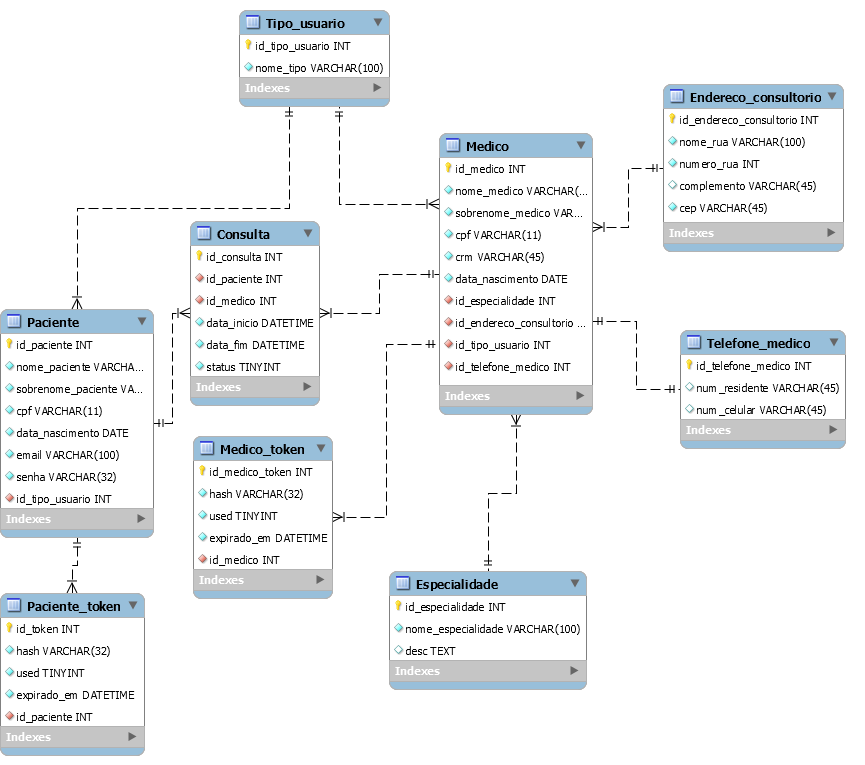
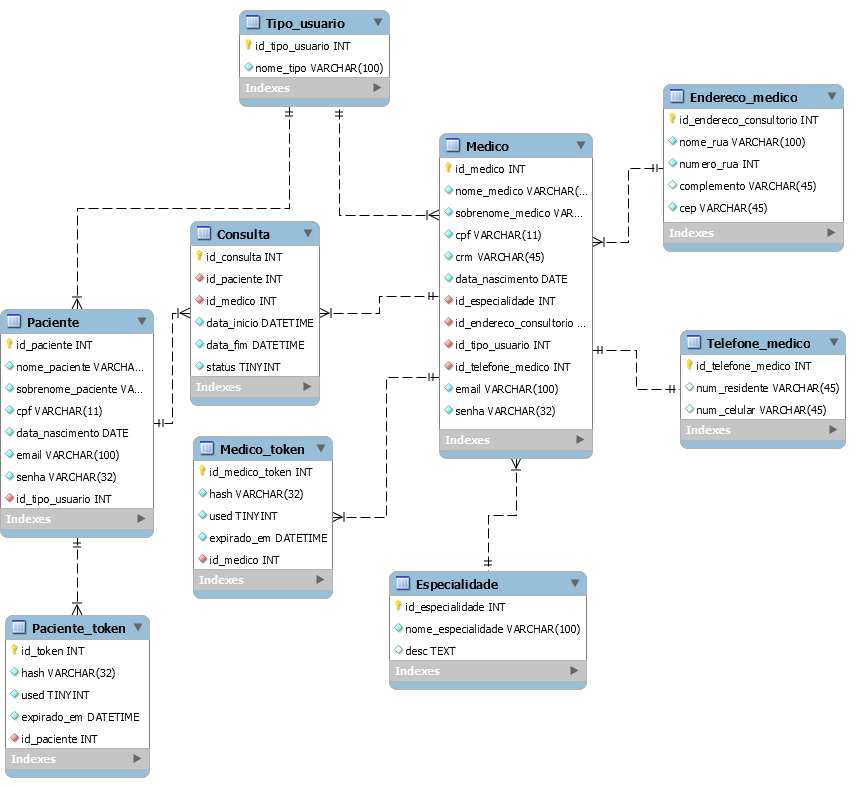
adicionado classes consulta, medico, paciente, usuario e  também seus respectivos métodos. E pequenas alterações no MER

diff --git a/classes/Medico.php b/classes/Medico.php
@@ -1,0 +1,161 @@
+<?php
+class Medico
+{
+    private $conn;
+
+    public function __construct($conn)
+    {
+        $this->conn = $conn;
+    }
+
+    // Retorna um array com todos os médicos cadastrados.
+    // Revisar query, está com erro!!!
+    public function getMedicos()
+    {
+        $stmt = $this->conn->query('SELECT nome_medico, sobrenome_medico, email, 
+        (SELECT especialidade.nome_especialidade FROM especialidade),
+        (SELECT endereco_consultorio.nome_rua, endereco_consultorio.numero_rua, endereco_consultorio.cep FROM endereco_consultorio),
+        (SELECT telefone_medico.num_residente, telefone_medico.num_celular FROM telefone_medico) 
+        FROM medico');
+        $array = array();
+        if ($stmt->rowCount() > 0) {
+            $array = $stmt->fetchAll(PDO::FETCH_ASSOC);
+            return $array;
+        }
+        return $array;
+    }
+
+    // Cadastra um médico.
+    public function cadastrar($nome_medico, $sobrenome_medico, $cpf, $crm, $data_nascimento, $id_especialidade, $nome_rua, $numero_rua, $complemento, $cep, $id_tipo_usuario, $email, $senha, $num_res = null, $num_cel = null)
+    {
+        // Verifica se o email é válido (não está em uso).
+        $stmt = $this->conn->prepare('SELECT *, (SELECT paciente.email FROM paciente WHERE paciente.email = :email) FROM medico WHERE email = :email');
+        $stmt->bindValue(':email', $email);
+        $stmt->execute();
+        if ($stmt->rowCount() == 0) {
+            // Email válido, verificando CPF e CRM.
+            if ($this->validaCPF($cpf) == true && $this->validaCRM($crm) == true) {
+                // CPF e CRM válidos...
+                // Cadastrando endereço e salvando id.
+                $id_endereco_consultorio = $this->cadastrarEndereco($nome_rua, $numero_rua, $complemento, $cep);
+
+                // Cadastrando telefone e salvando id
+                $id_telefone_medico = $this->cadastrarTelefone($num_res, $num_cel);
+
+                // Cadastrando médico.
+                $stmt = $this->conn->prepare('INSERT INTO medico VALUES (DEFAULT, :nome_medico, :sobrenome_medico, :cpf, :crm, :data_nascimento, :id_especialidade, :id_endereco_consultorio, :id_tipo_usuario, :id_telefone_medico, :email, :senha)');
+                $stmt->bindValue(':nome_medico', $nome_medico);
+                $stmt->bindValue(':sobrenome_medico', $sobrenome_medico);
+                $stmt->bindValue(':cpf', $cpf);
+                $stmt->bindValue(':crm', $crm);
+                $stmt->bindValue(':data_nascimento', $data_nascimento);
+                $stmt->bindValue(':id_especialidade', $id_especialidade);
+                $stmt->bindValue(':id_endereco_consultorio', $id_endereco_consultorio);
+                $stmt->bindValue(':id_tipo_usuario', $id_tipo_usuario);
+                $stmt->bindValue(':id_telefone_medico', $id_telefone_medico);
+                $stmt->bindValue(':email', $email);
+                $stmt->bindValue(':senha', $senha);
+                $stmt->execute();
+                return true;
+            } else {
+                // CPF e/ou CRM inválido(s).
+                return false;
+            }
+
+        } else {
+            // Email inválido (está em uso).
+            return false;
+        }
+    }
+
+    // Cadastra um endereço e retorna o id_endereco_medico.
+    private function cadastrarEndereco($nome_rua, $numero_rua, $complemento, $cep)
+    {
+        $stmt = $this->conn->prepare('INSERT INTO endereco_consultorio (nome_rua, numero_rua, complemento, cep) VALUES (:nome_rua, :numero_rua, :complemento, :cep)');
+        $stmt->bindValue(':nome_rua', $nome_rua);
+        $stmt->bindValue(':numero_rua', $numero_rua);
+        $stmt->bindValue(':complemento', $complemento);
+        $stmt->bindValue(':cep', $cep);
+        $stmt->execute();
+        return $this->conn->lastIdInsert();
+    }
+
+    // Cadastra um telefone e retorna o id_telefone_medico
+    private function cadastrarTelefone($num_res, $num_cel)
+    {
+        $stmt = $this->conn->prepare('INSERT INTO telefone_medico (num_residente, num_celular) VALUES (:num_residente, :num_celular)');
+        $stmt->bindValue(':num_residente', $num_res);
+        $stmt->bindValue(':num_celular', $num_cel);
+        $stmt->execute();
+        return $this->conn->lastIdInsert();
+    }
+
+    // Verifica CRM
+    private function validaCRM($crm)
+    {
+        $stmt = $this->conn->prepare('SELECT * FROM medico WHERE crm = :crm');
+        $stmt->bindValue(':crm', $crm);
+        $stmt->execute();
+        if ($stmt->rowCount() == 0) {
+            // CRM válido.
+            return true;
+        } else {
+            // CRM inválido (está em uso).
+            return false;
+        }
+    }
+
+    // Verifica CPF
+    private function validaCPF($cpf)
+    {
+        // Verifica se um número foi informado
+        if(empty($cpf)) {
+            return false;
+        }
+    
+        // Elimina possivel mascara
+        $cpf = preg_replace("/[^0-9]/", "", $cpf);
+        $cpf = str_pad($cpf, 11, '0', STR_PAD_LEFT);
+        
+        // Verifica se o numero de digitos informados é igual a 11 
+        if (strlen($cpf) != 11) {
+            return false;
+        }
+        // Verifica se nenhuma das sequências invalidas abaixo foi digitada. Caso afirmativo, retorna falso
+        else if ($cpf == '00000000000' || 
+            $cpf == '11111111111' || 
+            $cpf == '22222222222' || 
+            $cpf == '33333333333' || 
+            $cpf == '44444444444' || 
+            $cpf == '55555555555' || 
+            $cpf == '66666666666' || 
+            $cpf == '77777777777' || 
+            $cpf == '88888888888' || 
+            $cpf == '99999999999') {
+            return false;
+        
+        // Calcula os digitos verificadores para verificar se o CPF é válido
+        } else {   
+            for ($t = 9; $t < 11; $t++) {
+                for ($d = 0, $c = 0; $c < $t; $c++) {
+                    $d += $cpf{$c} * (($t + 1) - $c);
+                }
+                $d = ((10 * $d) % 11) % 10;
+                if ($cpf{$c} != $d) {
+                    return false;
+                }
+            }
+        }
+
+        // Verifica se o CPF está disponível
+        $stmt = $this->conn->prepare('SELECT * FROM medico WHERE cpf = :cpf');
+        $stmt->bindValue(':cpf', $cpf);
+        $stmt->execute();
+        if ($stmt->rowCount() > 0) {
+            // CPF inválido (está em uso).
+            return false;
+        }
+
+        return true;
+    }
+}

diff --git a/classes/Paciente.php b/classes/Paciente.php
@@ -1,0 +1,98 @@
+<?php
+class Paciente
+{
+    private $conn;
+
+    public function __construct($conn)
+    {
+        $this->conn = $conn;
+    }
+
+    // Cadastra Paciente
+    public function cadastrar($nome_paciente, $sobrenome_paciente, $cpf, $data_nascimento, $email, $senha, $id_tipo_usuario)
+    {
+        // Verifica se o email é válido (não está em uso).
+        $stmt = $this->conn->prepare('SELECT *, (SELECT medico.email FROM medico WHERE medico.email = :email) FROM paciente WHERE email = :email');
+        $stmt->bindValue(':email', $email);
+        $stmt->execute();
+        if ($stmt->rowCount() == 0) {
+            // Email disponível, verificando CPF.
+            if ($this->validaCPF($cpf) == true) {
+                // CPF válido, inserindo usuário.
+                $stmt = $this->conn->prepare('INSERT INTO paciente (nome_paciente, sobrenome_paciente, cpf, data_nascimento, email, senha, id_tipo_usuario) 
+                VALUES (:nome_paciente, :sobrenome_paciente, :cpf, :data_nascimento, :email, :senha, :id_tipo_usuario)');
+                $stmt->bindValue(':nome_paciente', $nome_paciente);
+                $stmt->bindValue(':sobrenome_paciente', $sobrenome_paciente);
+                $stmt->bindValue(':cpf', $cpf);
+                $stmt->bindValue(':data_nascimento', $data_nascimento);
+                $stmt->bindValue(':email', $email);
+                $stmt->bindValue(':senha', $senha);
+                $stmt->bindValue(':id_tipo_usuario', $id_tipo_usuario);
+                $stmt->execute();
+
+                return true;    
+            } else {
+                // CPF inválido.
+                return false;
+            }
+        } else {
+            // Email inválido (está em uso).
+            return false;
+        }
+    }
+
+    // Verifica o CPF.
+    private function validaCPF($cpf)
+    {
+        // Verifica se um número foi informado
+        if(empty($cpf)) {
+            return false;
+        }
+    
+        // Elimina possivel mascara
+        $cpf = preg_replace("/[^0-9]/", "", $cpf);
+        $cpf = str_pad($cpf, 11, '0', STR_PAD_LEFT);
+        
+        // Verifica se o numero de digitos informados é igual a 11 
+        if (strlen($cpf) != 11) {
+            return false;
+        }
+        // Verifica se nenhuma das sequências invalidas abaixo foi digitada. Caso afirmativo, retorna falso
+        else if ($cpf == '00000000000' || 
+            $cpf == '11111111111' || 
+            $cpf == '22222222222' || 
+            $cpf == '33333333333' || 
+            $cpf == '44444444444' || 
+            $cpf == '55555555555' || 
+            $cpf == '66666666666' || 
+            $cpf == '77777777777' || 
+            $cpf == '88888888888' || 
+            $cpf == '99999999999') {
+            return false;
+        // Calcula os digitos verificadores para verificar se o CPF é válido
+        } else {   
+            
+            for ($t = 9; $t < 11; $t++) {
+                
+                for ($d = 0, $c = 0; $c < $t; $c++) {
+                    $d += $cpf{$c} * (($t + 1) - $c);
+                }
+                $d = ((10 * $d) % 11) % 10;
+                if ($cpf{$c} != $d) {
+                    return false;
+                }
+            }
+        }
+
+        // Verifica se o CPF está disponível
+        $stmt = $this->conn->prepare('SELECT * FROM medico WHERE cpf = :cpf');
+        $stmt->bindValue(':cpf', $cpf);
+        $stmt->execute();
+        if ($stmt->rowCount() > 0) {
+            // CPF inválido (está em uso).
+            return false;
+        }
+
+        return true;
+    }
+}

diff --git a/classes/Consulta.php b/classes/Consulta.php
@@ -1,0 +1,38 @@
+<?php
+class Consulta
+{
+    private $conn;
+
+    public function __construct($conn)
+    {
+        $this->conn = $conn;
+    }
+
+    // Busca consultas de um determinado paciente
+    public function getConsultasPaciente($id_paciente)
+    {
+        $stmt = $this->conn('SELECT * FROM consulta WHERE id_paciente = :id_paciente');
+        $stmt->bindValue(':id_paciente', $id_paciente);
+        $stmt->execute();
+        $array = array();
+        if ($stmt->rowCount() > 0) {
+            $array = $stmt->fetchAll(PDO::FETCH_ASSOC);
+            return $array;
+        }
+        return $array;
+    }
+
+    // Busca consultas de um determinado médico
+    public function getConsultasMedico($id_medico)
+    {
+        $stmt = $this->conn('SELECT * FROM consulta WHERE id_medico = :id_medico');
+        $stmt->bindValue(':id_medico', $id_medico);
+        $stmt->execute();
+        $array = array();
+        if ($stmt->rowCount() > 0) {
+            $array = $stmt->fetchAll(PDO::FETCH_ASSOC);
+            return $array;
+        }
+        return $array;
+    }
+}

diff --git a/classes/Usuario.php b/classes/Usuario.php
@@ -8,8 +8,24 @@ class Usuarios
         $this->conn = $conn;
     }
 
+    // Realiza login de médicos e pacientes.
     public function login($email, $senha)
     {
-        
+        // Verificando se email e senha são válidos.
+        $stmt = $this->conn('SELECT *, 
+        (SELECT medico.id_medico, medico.id_tipo_usuario, medico.email FROM medico WHERE medico.email = :email AND medico.senha = :senha ) 
+        FROM paciente WHERE email = :email AND senha = :senha');
+        $stmt->bindValue(':email', $email);
+        $stmt->bindValue(':senha', $senha);
+        $stmt->execute();
+
+        if ($stmt->rowCounte() > 0) {
+            $info = $stmt->fetchAll(PDO::FETCH_ASSOC);
+            $_SESSION['id_usuario'] = $info[0];
+            $_SESSION['id_tipo_usuario'] = $info['id_tipo_usuario'];
+            return true;
+        } else {
+            return false;
+        }
     }
 }
